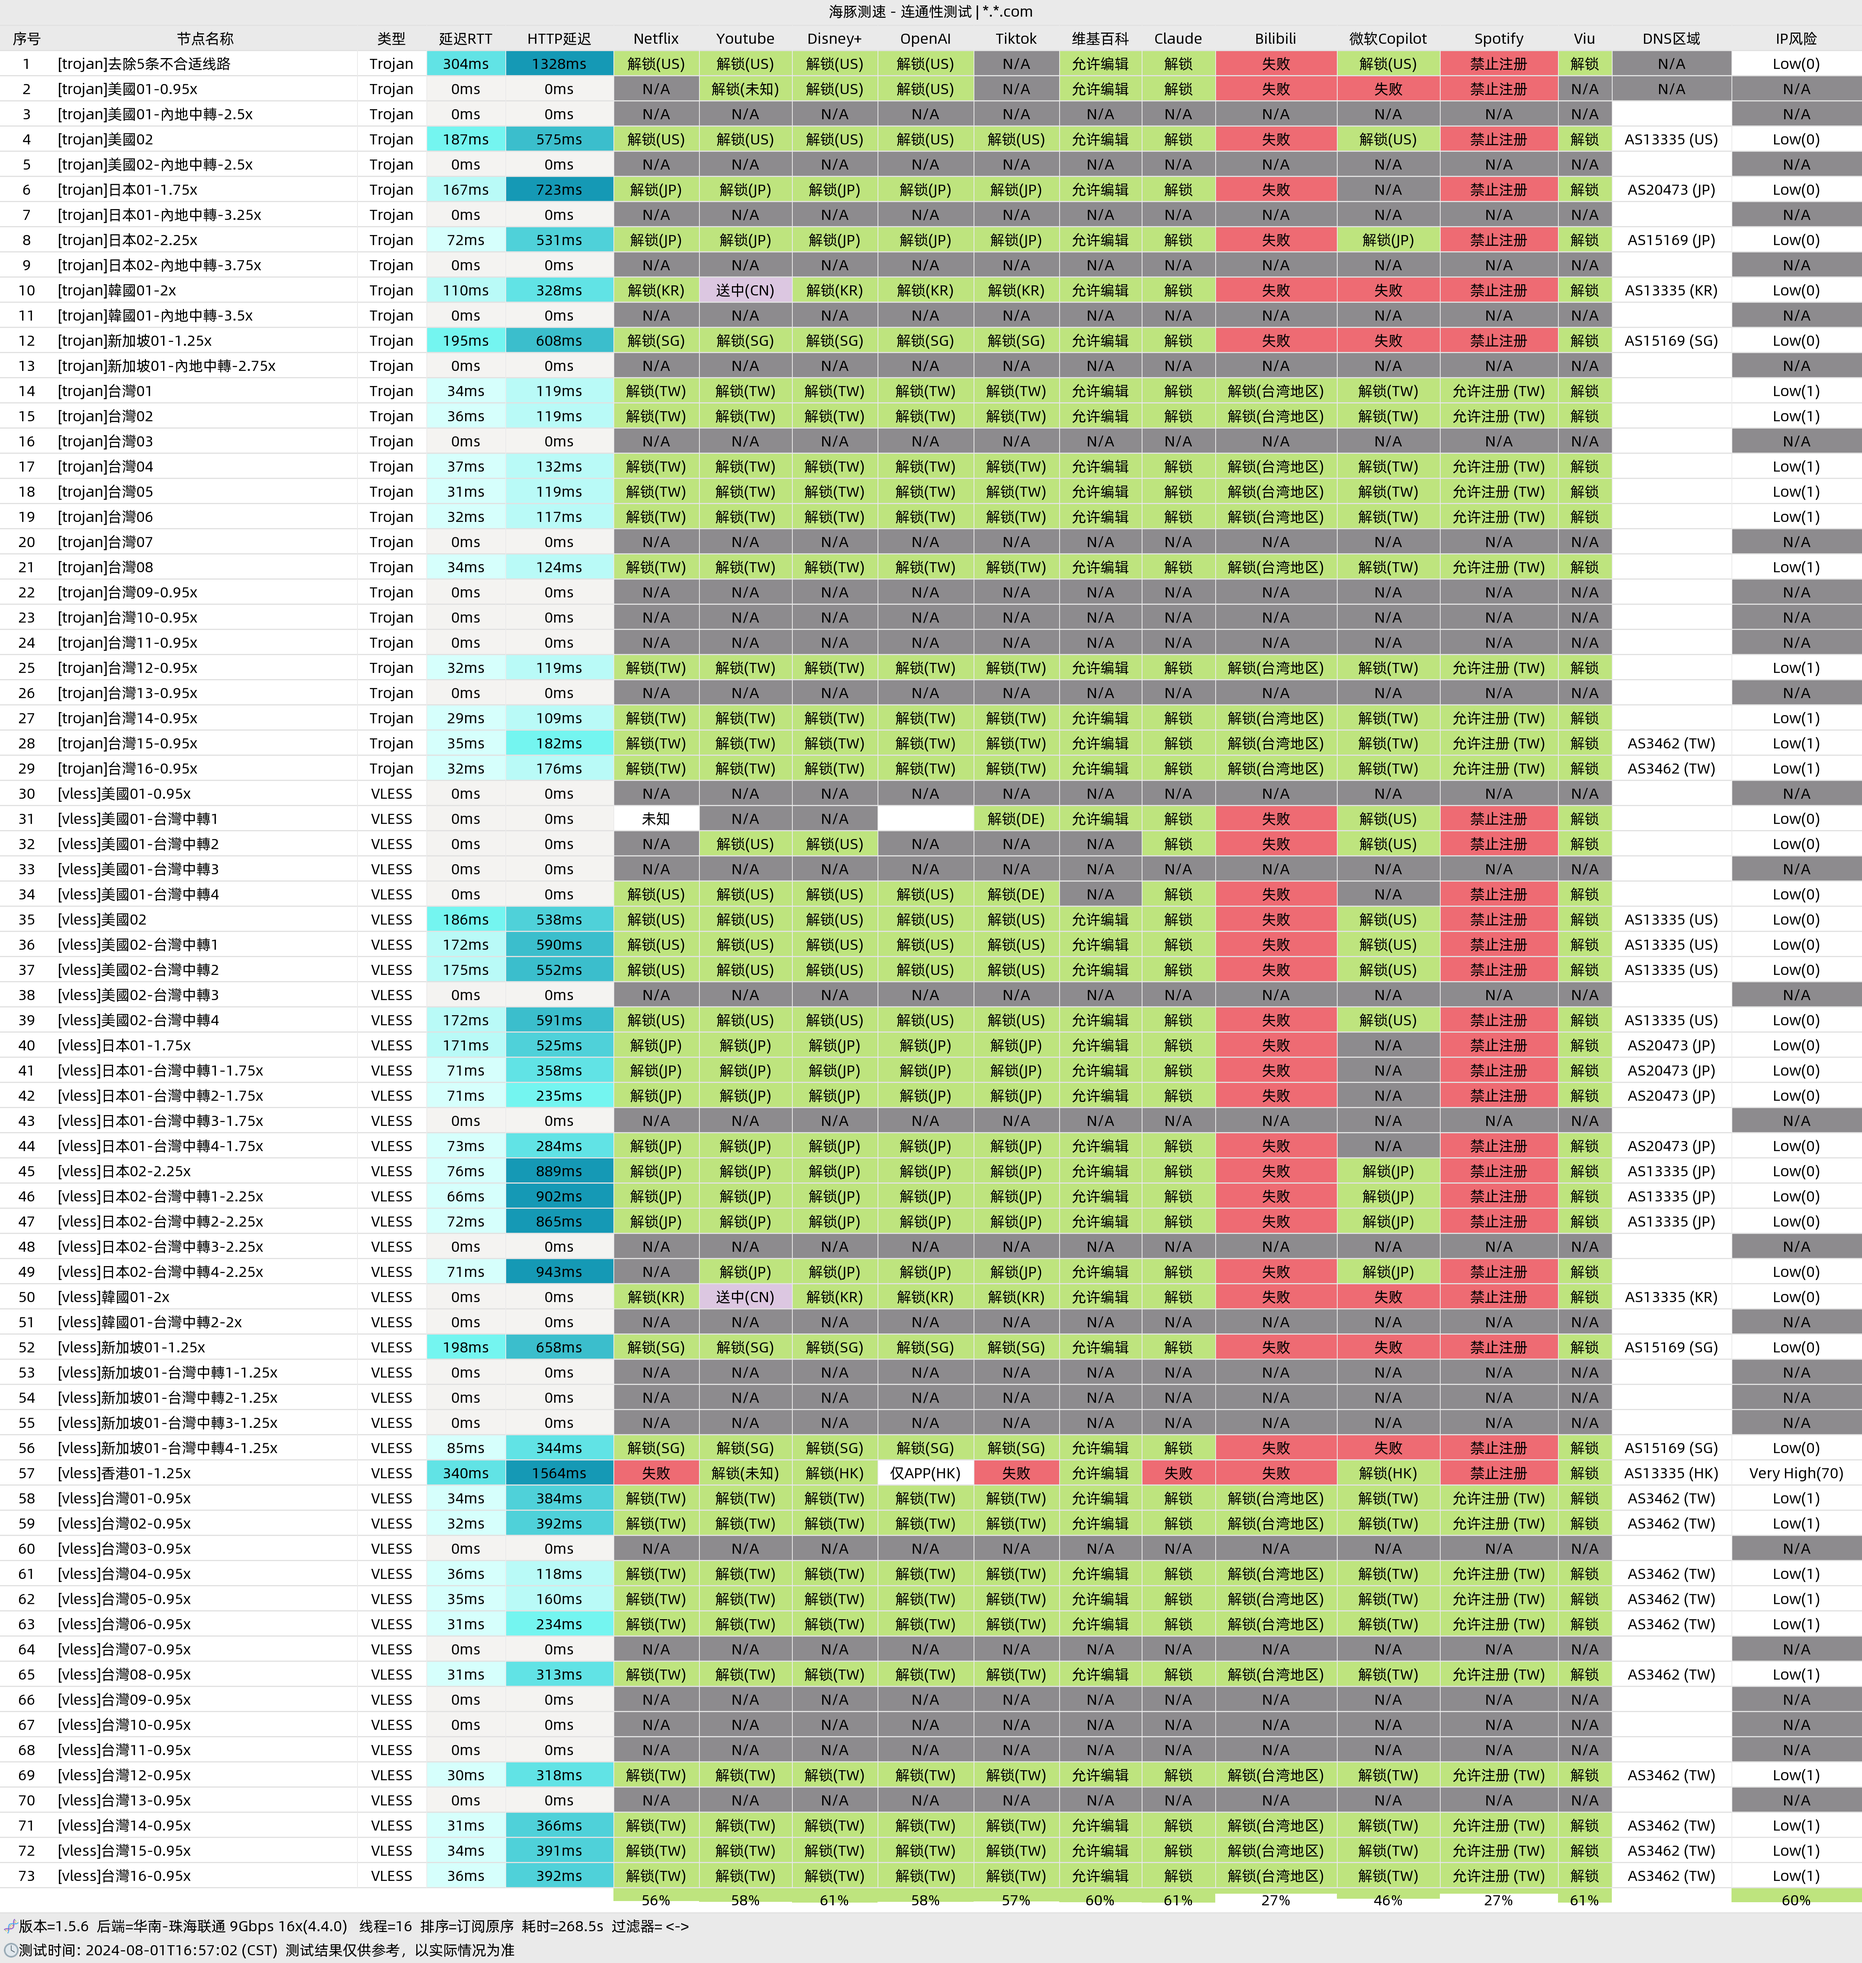
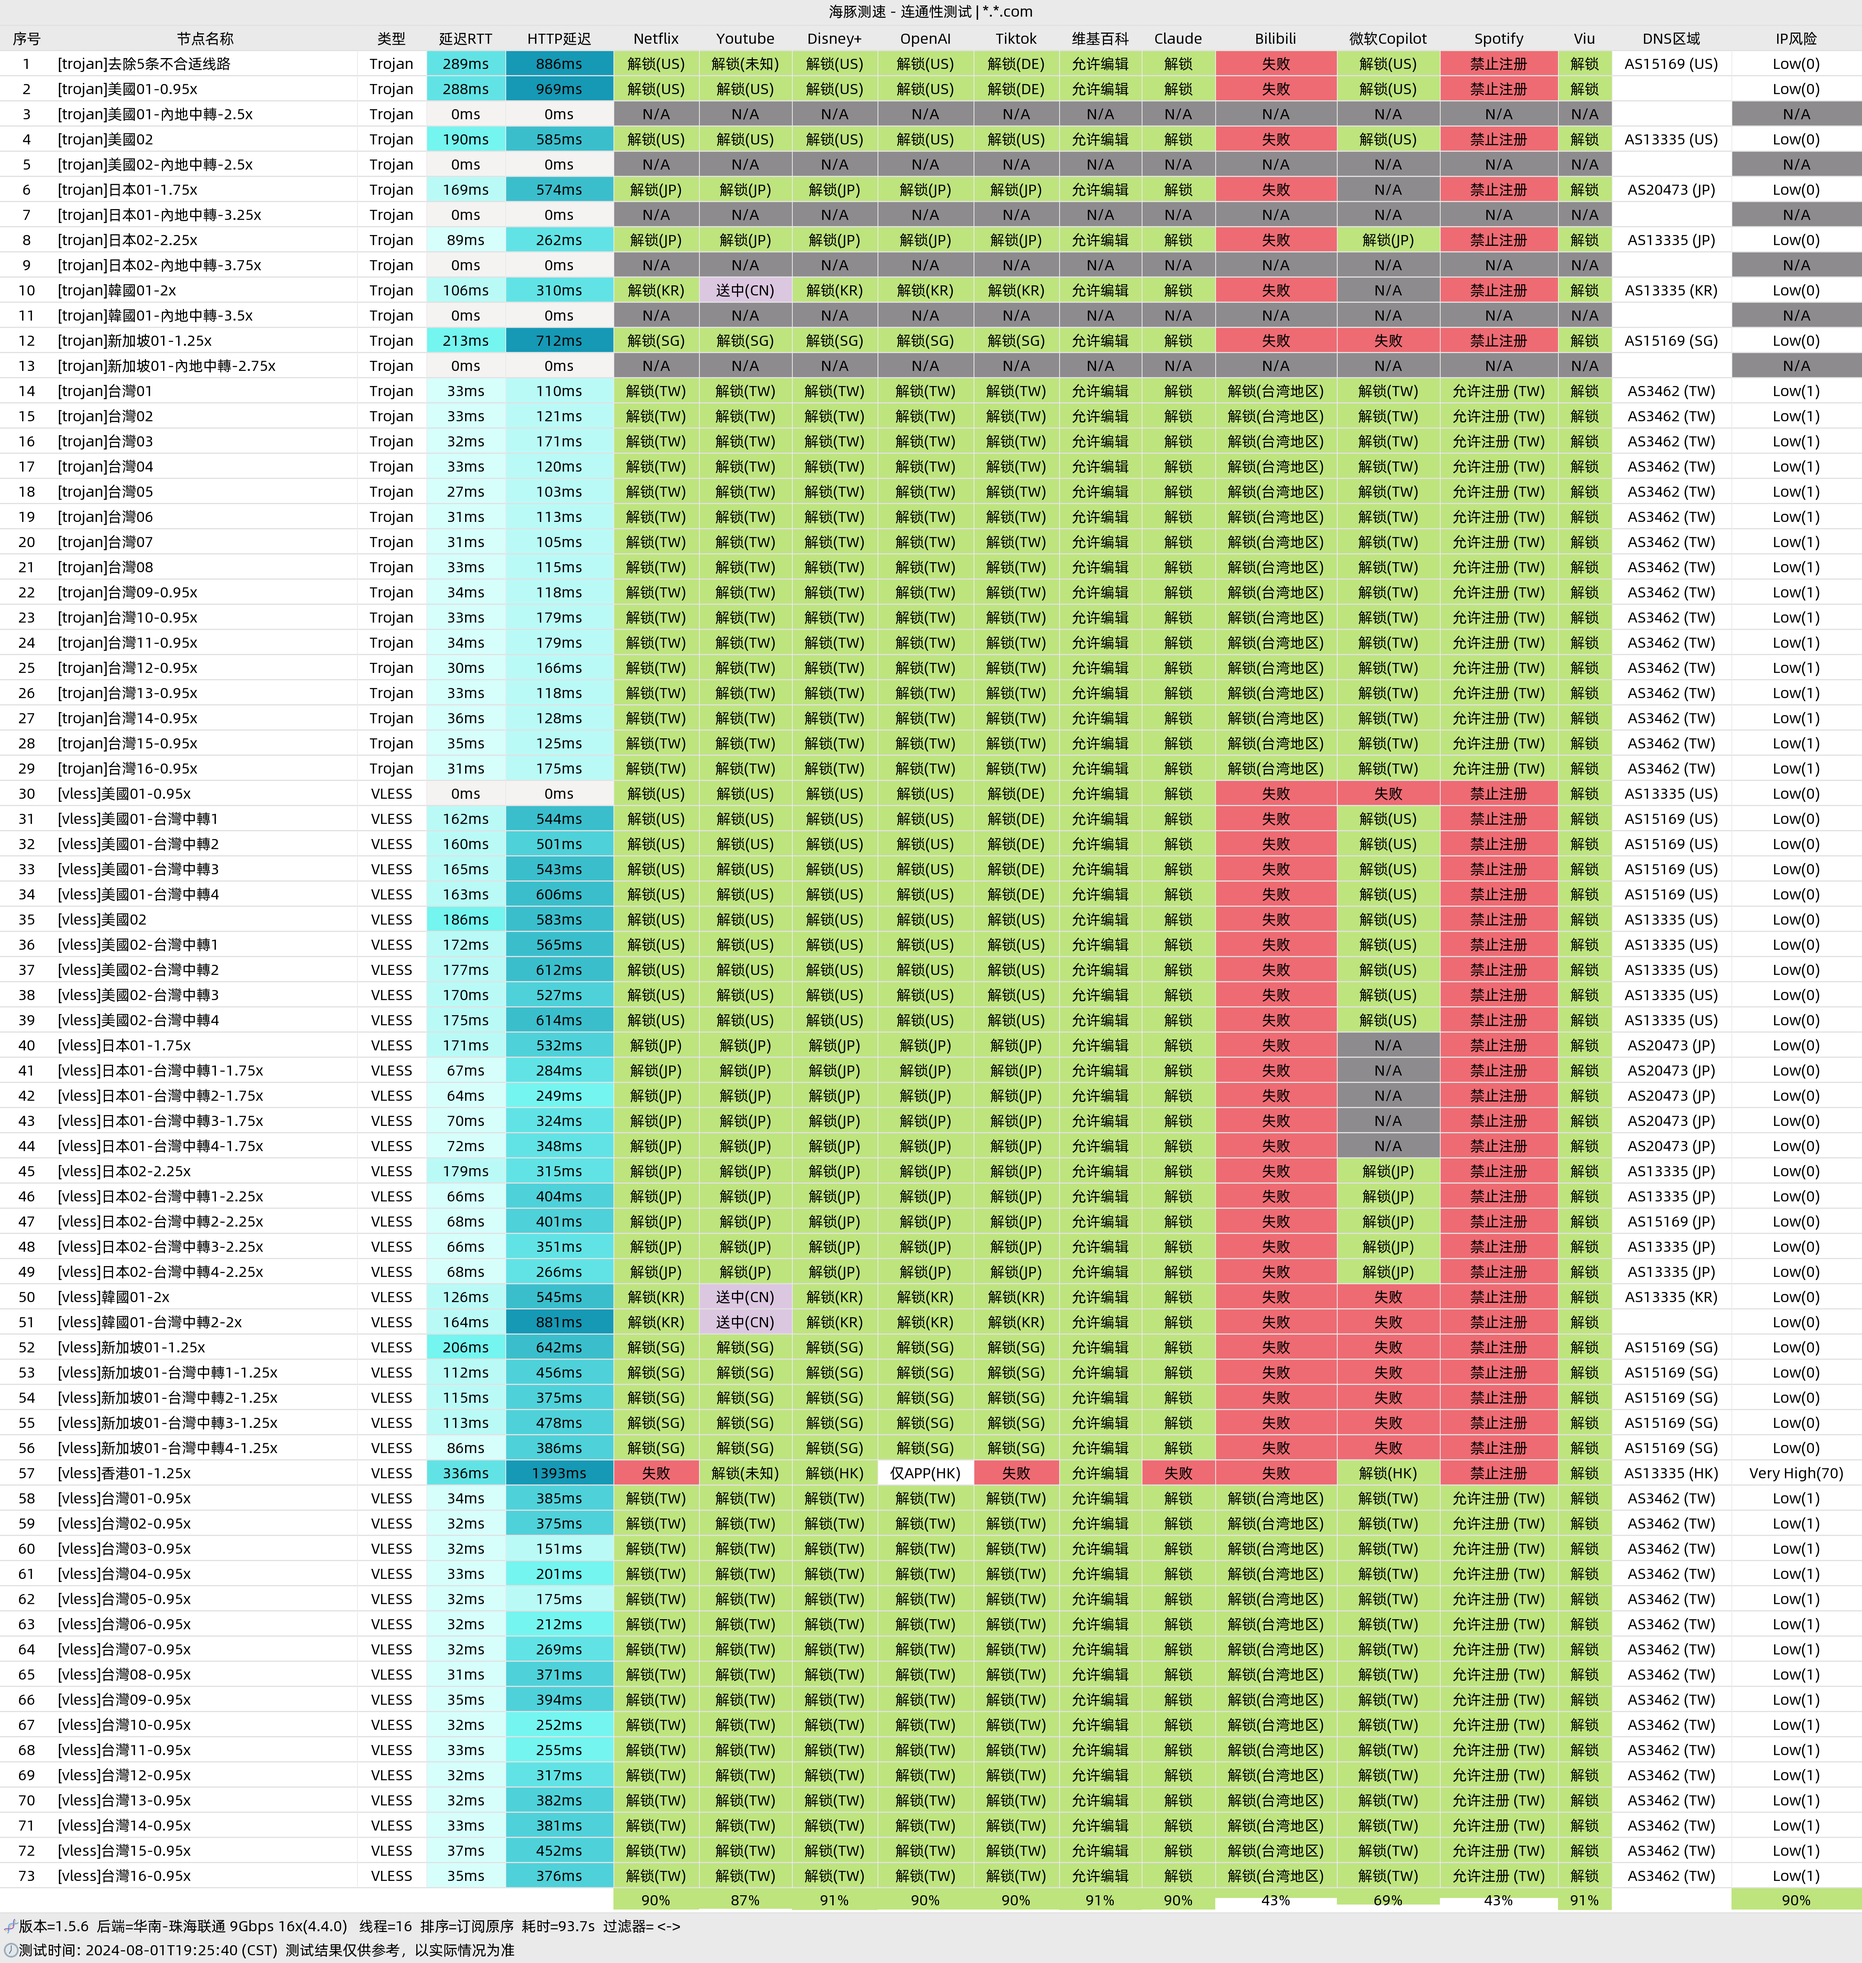
init

diff --git a/Airport/宝可梦/readme.md b/Airport/宝可梦/readme.md
@@ -1,0 +1,67 @@
+# 宝可梦
+
+-------------------------
+
+宝可梦
+
+直连：是
+
+中转：否
+
+节点质量：还行
+
+是否强制启用邀请制：否
+
+节点点评:
+
+    很不错的节点
+
+-------------------------
+
+节点连通性测试图：
+
+![image](/img/116.png)
+
+-------------------------
+
+邀请链接：[复制该地址到浏览器，粘贴打开即可]
+
+    https://ktmclub.club/#/register?code=0xZqmOLo
+
+-------------------------
+
+宝可梦节点测速图:
+
+![image](/img/117.png)
+
+-------------------------
+
+宝可梦线路拓扑图:
+
+![image](/img/118.png)
+
+-------------------------
+
+宝可梦流媒体解锁图:
+
+![image](/img/119.png)
+
+-------------------------
+
+节点协议：
+
+vmess、Hysteria2
+
+-------------------------
+
+## 机场套餐价格预览:
+
+![image](/price/bkm/1.png)
+
+![image](/price/bkm/2.png)
+
+![image](/price/bkm/3.png)
+
+![image](/price/bkm/4.png)
+
+-------------------------

diff --git a/Airport/Suda VPN/readme.md b/Airport/Suda VPN/readme.md
@@ -6,9 +6,9 @@ Suda VPN
 
 直连：是
 
-中转：未知
+中转：是
 
-节点质量：麻麻地
+节点质量：还不错
 
 是否强制启用邀请制：否
 
@@ -20,7 +20,7 @@ Suda VPN
 
 节点连通性测试图：
 
-暂无
+![image](/img/115.png)
 
 -------------------------
 
@@ -32,7 +32,7 @@ Suda VPN
 
 Suda VPN节点测速图:
 
-![image](/img/45.png)
+![image](/img/120.png)
 
 > 说明:由于这个订阅不知道为啥Fulltclash获取不到订阅，无法进行更多测试，只能用另外一个测速本地的工具进行了测速，而且这个工具不支持vless节点，所以在测速图中没有vless的节点
 
@@ -40,13 +40,13 @@ Suda VPN节点测速图:
 
 Suda VPN线路拓扑图:
 
-暂无
+![image](/img/121.png)
 
 -------------------------
 
 Suda VPN流媒体解锁图:
 
-暂无
+![image](/img/122.png)
 
 -------------------------
 
